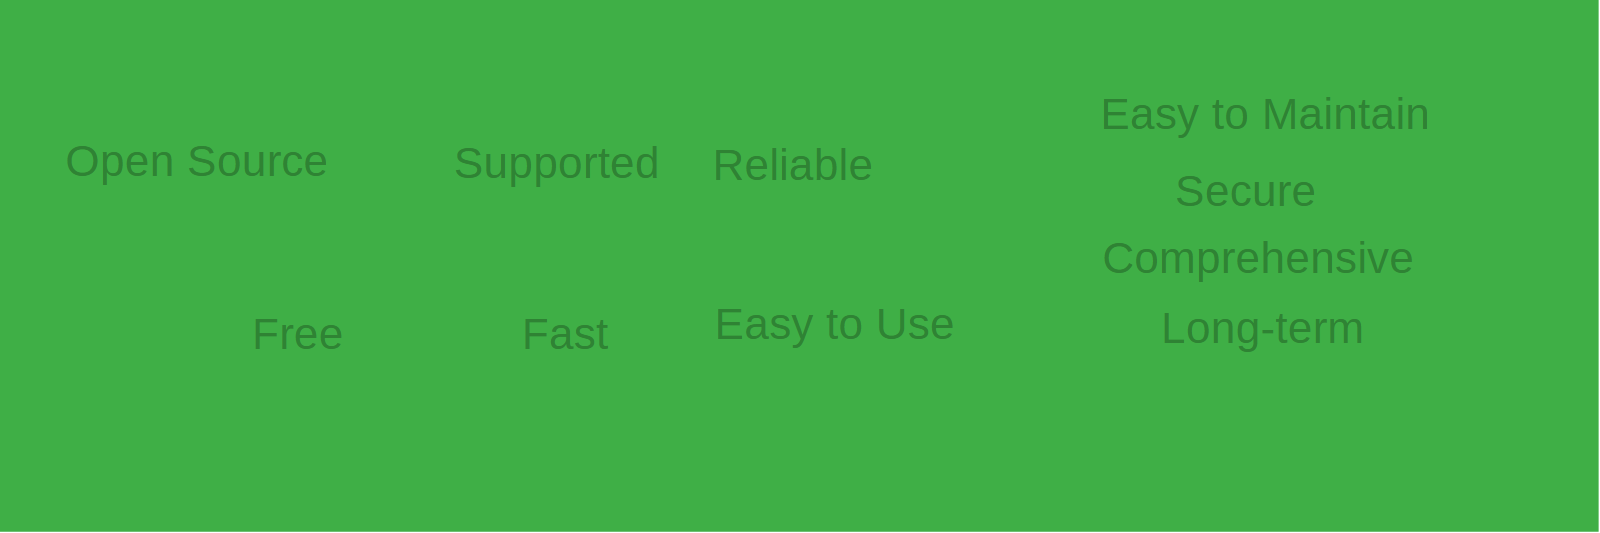
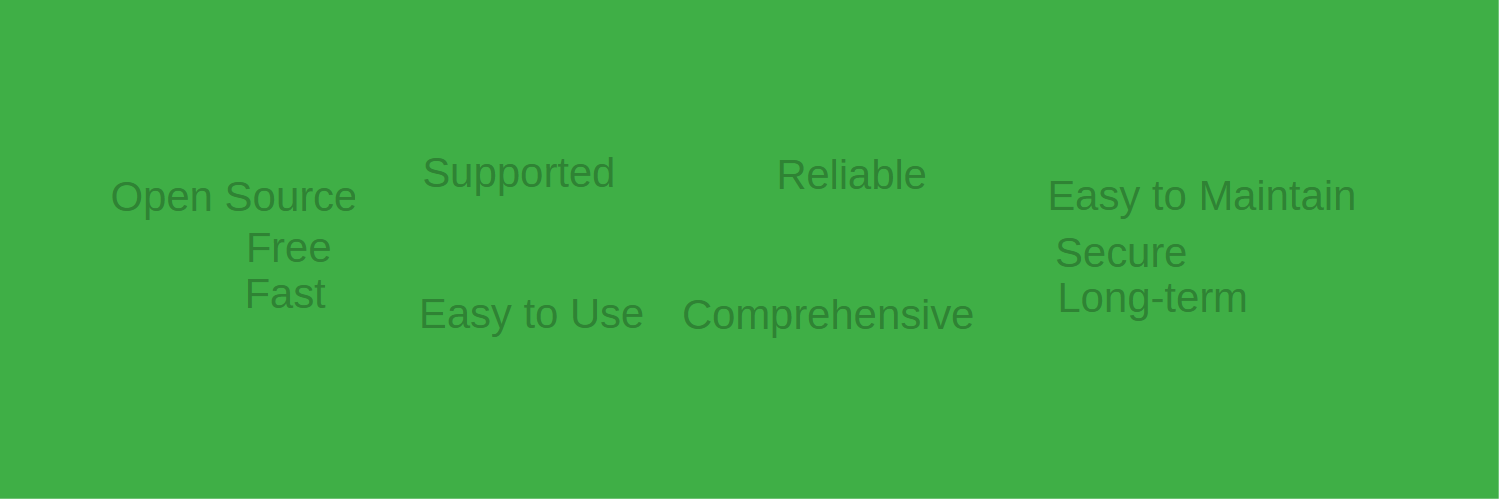
adjust mastheads
background color, placement by screen size, fonts/colors

diff --git a/_sass/_07_layout.scss b/_sass/_07_layout.scss
@@ -90,15 +90,21 @@ body.video cite { color: #fff; }
     margin-top: 10px;
 }
 
+// Made height/margin-top smaller for what wanted and half on small screen.
+
 /* Masthead › small-only
 ------------------------------------------------------------------- */
 
+// Wanted to keep logo even on small screen so disable.
 @media #{$small-only} {
+    // #logo img {
+        // display: none;
+    // }
     #logo img {
-        display: none;
+        margin-top: 30px;
     }
     #masthead {
-        height: 200px;
+        height: 100px;
     }
     #masthead-with-pattern {
         padding: 15px 0;
@@ -111,8 +117,11 @@ body.video cite { color: #fff; }
         padding: 30px 0;
         font-size: rem-calc(36);
     }
-    #masthead-no-image-header {
-        display: none;
+    // #masthead-no-image-header {
+    //     display: none;
+    // }
+    #masthead-no-image-header #logo img {
+        margin-top: 35px;
     }
 }
 
@@ -125,7 +134,7 @@ body.video cite { color: #fff; }
         margin-top: 60px;
     }
     #masthead {
-        height: 280px;
+        height: 200px;
     }
     #masthead-with-pattern {
         padding: 20px 0;
@@ -137,6 +146,9 @@ body.video cite { color: #fff; }
         padding: 60px 0;
         height: 300px;
     }
+    #masthead-no-image-header #logo img {
+        margin-top: 20px;
+    }
 }
 
 
@@ -145,10 +157,10 @@ body.video cite { color: #fff; }
 
 @media #{$large-only} {
     #logo img {
-        margin-top: 80px;
+        margin-top: 60px;
     }
     #masthead {
-        height: 310px;
+        height: 200px;
     }
     #masthead-with-pattern {
         padding: 30px 0;
@@ -168,10 +180,10 @@ body.video cite { color: #fff; }
 
 @media #{$xlarge-up} {
     #logo img {
-        margin-top: 110px;
+        margin-top: 60px;
     }
     #masthead {
-        height: 380px;
+        height: 200px;
     }
     #masthead-with-pattern {
         padding: 45px 0;

diff --git a/_includes/_masthead.html b/_includes/_masthead.html
@@ -13,7 +13,7 @@
 
 <div id="masthead-no-image-header">
 	<div class="row">
-		<div class="small-12 columns">
+		<div class="small-6 small-centered columns">
 			<a id="logo" title="{{ site.title }} – {{ site.slogan }}">
 				<img src="{{ site.url }}{{ site.baseurl }}/assets/img/{{ imageUse }}" alt="{{ site.title }} – {{ site.slogan }}">
 			</a>
@@ -33,7 +33,7 @@
 
 <div id="masthead-with-text" style="{% if page.header.background-color %}background: {{ page.header.background-color }};{% endif %} {% if page.header.image_fullwidth %}{% elsif page.header.pattern %}background: linear-gradient(rgba(0, 0, 0, 0.2), rgba(0, 0, 0, 0.4)), url('{{ site.urlimg }}/{{ page.header.pattern }}'){% endif %}">
 	<div class="row">
-		<div class="small-12 columns">
+		<div class="small-8 columns">
 			<div class="masthead-title">{{ page.header.title }}</div>
 		</div><!-- /.small-12.columns -->
 	</div><!-- /.row -->
@@ -61,7 +61,8 @@
 
 <div id="masthead">
 	<div class="row">
-		<div class="small-12 columns">
+		<!-- Not sure why centered does not seem to work. -->
+		<div class="small-6 small-centered columns">
 			<a id="logo" title="{{ site.title }} – {{ site.slogan }}">
 				<img src="{{ site.url }}{{ site.baseurl }}/assets/img/{{ imageUse }}" alt="{{ site.title }} – {{ site.slogan }}">
 			</a>
